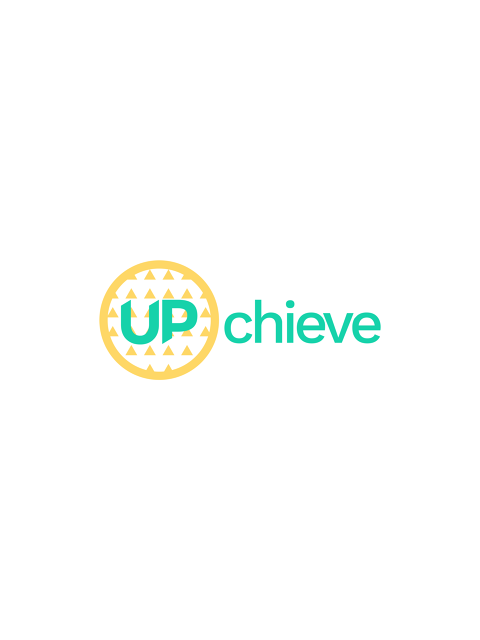
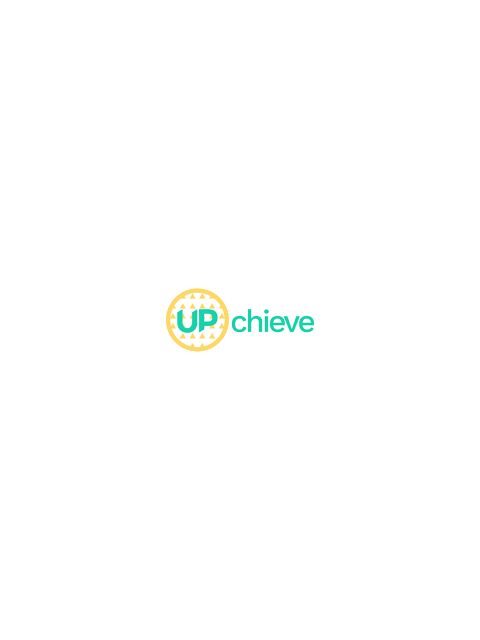
updated splash screens / readme

Changed region(s): [[0.1875, 0.4062, 0.8125, 0.5938]]

diff --git a/README.md b/README.md
@@ -74,14 +74,82 @@ Be sure to bump the version number in package.json before running deploy
 ### Dependencies
 
   - `npm install -g cordova`
+  - `npm install -g gulp`
   - iOS
     - [XCode](https://developer.apple.com/xcode/)
     - `npm install -g ios-sim ios-deploy`
   - Android:
     [Android SDK](https://developer.android.com/sdk/installing/index.html)
 
+### Available portal calls
+ `app.exit`
+ `app.exitWithoutAnimation`
+ `app.isLoaded`
+ `app.triggerRepaint`
+ `app.getDeviceId`
+ `app.onPause`
+ `app.onResume`
+ `app.onBack`
+ `app.rate`
 
-### MISC
+ `share.any`
+ `share.multi`
+
+ `keyboard.show`
+ `keyboard.close`
+ `keyboard.onShow`
+ `keyboard.onHide`
+ `keyboard.disableScroll`
+ `keyboard.hideAccessoryBar`
+ `keyboard.showAccessoryBar`
+
+ `launcher.check`
+ `launcher.launch`
+
+ `intents.start`
+
+ `orientation.lock`
+ `orientation.unlock`
+ `orientation.get`
+ `orientation.onChange`
+
+ `networkInformation.onOnline`
+ `networkInformation.onOffline`
+ `networkInformation.getType`
+
+ `push.register`
+ `push.subscribeToTopic`
+ `push.getBadgeNumber`
+ `push.setBadgeNumber`
+ `push.getHasPermission`
+ `push.setContextId`
+ `push.onData`
+ `push.registerAction`
+
+ `top.getData`
+ `top.onData`
+ `top.clearEventListeners`
+
+ `browser.openWindow`
+ `browser.closeWindow`
+ `browser.show`
+ `browser.reply`
+
+ `deepLink.getPath`
+ `deepLink.onRoute`
+
+ `geolocation.getCurrentPosition`
+
+ `permissions.check`
+ `permissions.request`
+
+ `statusBar.setOverlaysWebview`
+ `statusBar.setBackgroundColor`
+ `statusBar.hide`
+ `statusBar.show`
+ `statusBar.getIsVisible`
+
+### MISC notes
 when releasing, using autosigning may break fcm?
 
 Add provisioning profile for the app you added https://developer.apple.com/account/ios/profile/
